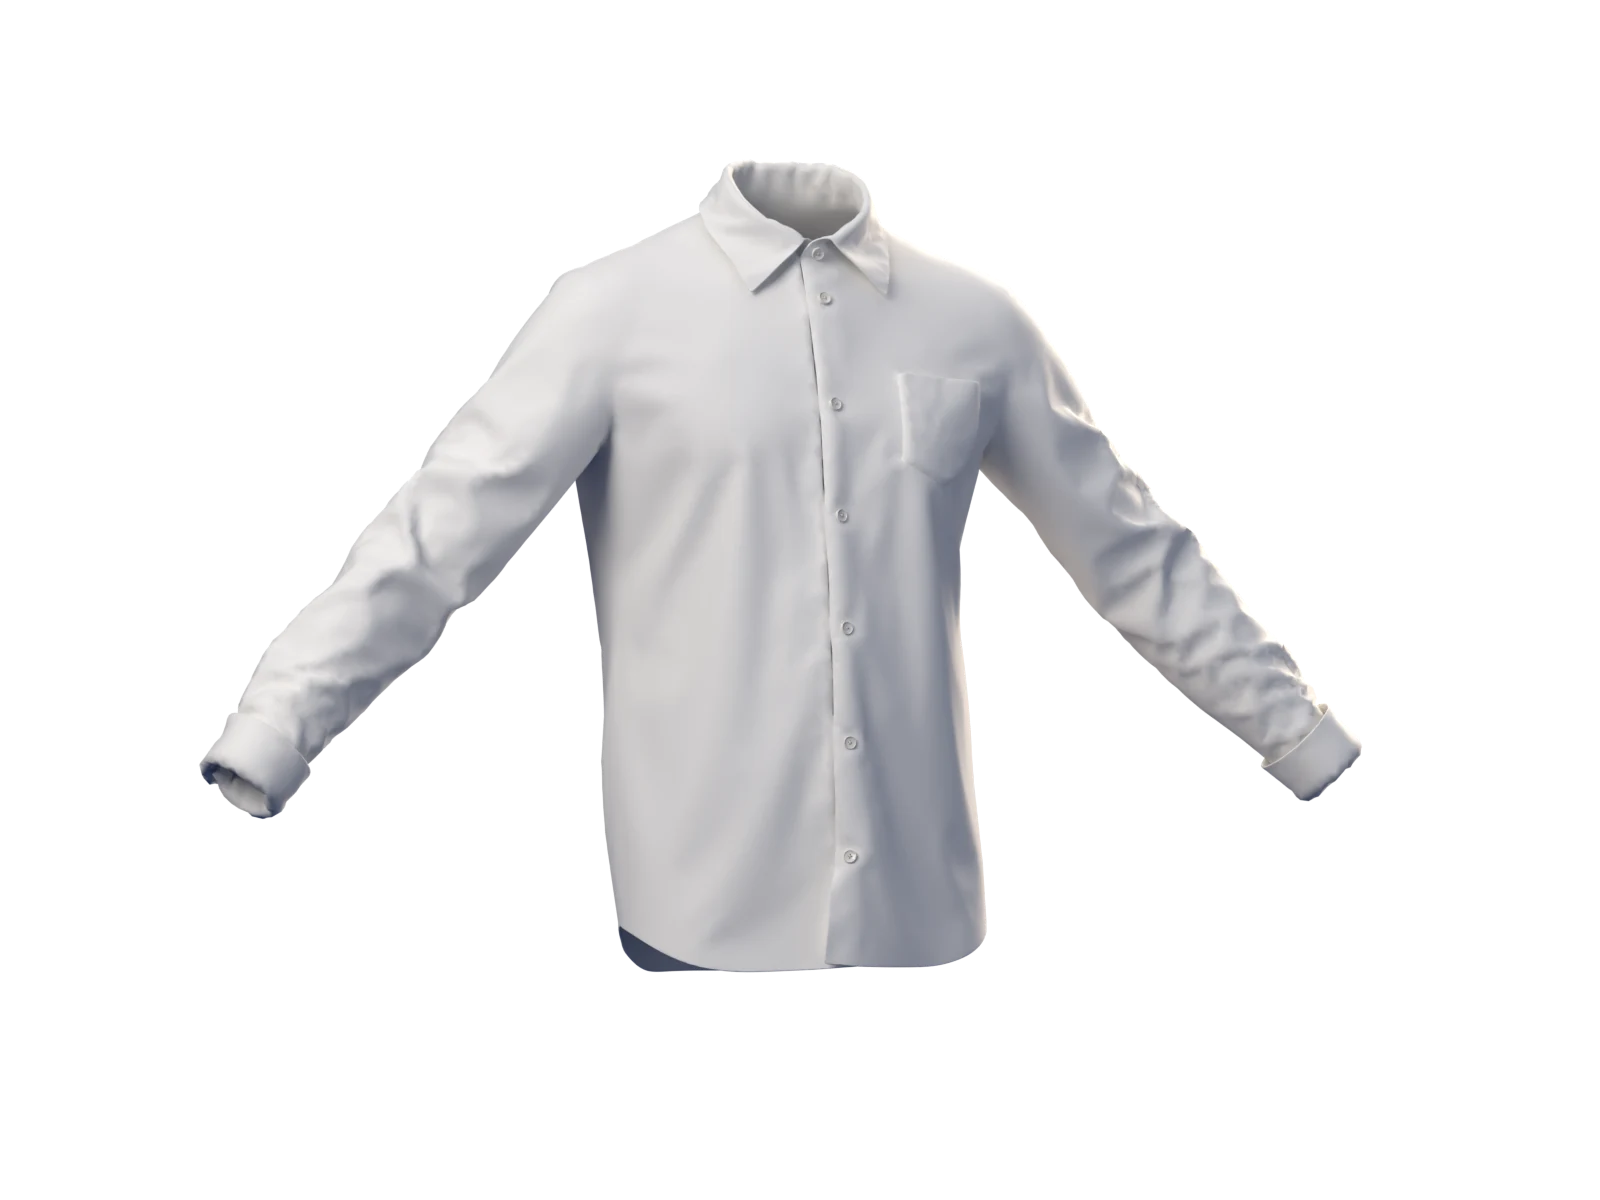
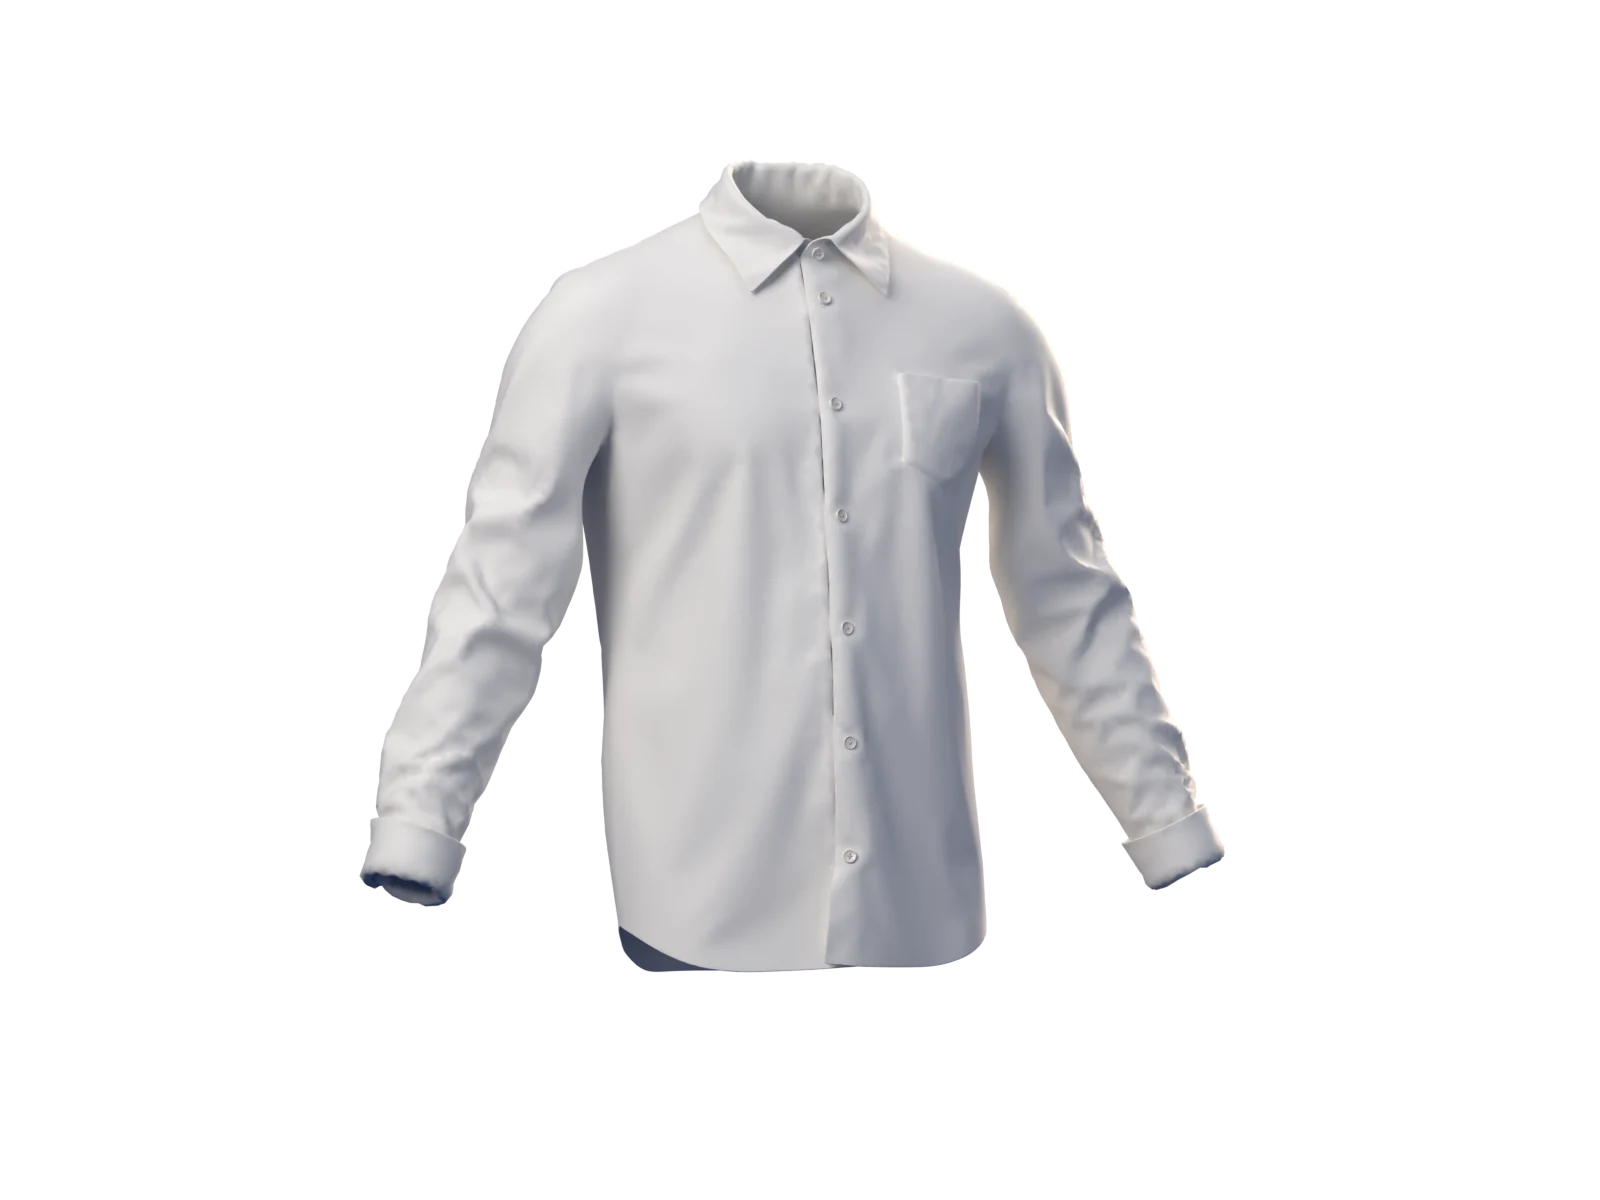
Camicia con le braccia più basse, anteprima aggiornata con la nuova struttura
- il proprietario ha scelto la posa con le braccia abbassate di 20 gradi:
  immagine ferma e misure aggiornate (il modello resta fuori dal repository)
- memoria e direzione creativa: struttura a più pagine online sull'anteprima,
  passo 1 del configuratore online per la prova dal vivo

Claude-Session: https://claude.ai/code/session_01D8Lb2KTLGf2y6eiKFqLGEZ

Changed region(s): [[0.125, 0.2775, 0.4062, 0.7708], [0.5938, 0.3083, 0.875, 0.7708]]

diff --git a/docs/direzione-creativa.md b/docs/direzione-creativa.md
@@ -345,15 +345,15 @@ Riaperto dal proprietario il 15 novembre 2026, da costruire **a passi**: ogni pa
 - *Il 3D è in diretta nel browser*, con three.js: è la prima volta nel progetto. Per l'apertura il 3D in diretta era stato scartato e resta scartato lì; qui serve perché la camicia deve rispondere al puntatore e, dal passo 2, cambiare tessuto.
 - *La camicia* parte da un modello già fatto, caricato dal proprietario il 15 novembre 2026 ("credo sia troppo complicato partire da zero, parti da questo già fatto e miglioralo"): camicia a maniche lunghe con taschino, 139.000 triangoli, bottoni e fili modellati. Avevamo cominciato a modellarla noi con Blender (busto invisibile e caduta del tessuto): abbandonato. Il modello è materiale comprato: l'originale non sta nel repository, e nemmeno il file pronto per il browser finché il repository è pubblico (vedi `CLAUDE.md`).
 - *Cosa ha di buono il modello*: la sua mappa è il cartamodello vero, in scala (un'unità vale 2,754 m di tessuto, scritto in `public/camicia/camicia.json`), con il filo nel verso giusto su ogni pezzo. Dal passo 2 basta stendere l'immagine di un tessuto ripetuta e righe e quadretti cadono come su una camicia cucita. Il tessuto ha due strati, diritto e rovescio, a 1,8 mm.
-- *Cosa abbiamo migliorato*: facce girate rimesse a posto; per ogni punto l'ombra d'ambiente calcolata con Blender (pieghe, sotto il collo, interno) e quanto può muoversi (niente su collo, polsini e bottoni); materiali nostri (cotone con la sua peluria e una grana fine, bottoni color madreperla); peso da 11,9 MB a 1,1 MB.
-- *Come si rifà* (serve il file originale `Shirt OBJ.obj`, che ha il proprietario): `<venv>/bin/python camicia/prepara.py <Shirt OBJ.obj> <cartella>`, poi `node camicia/comprimi.mjs <cartella>/camicia.glb public/camicia/camicia.glb`, poi `<venv>/bin/python camicia/manifesto.py <cartella>` per l'immagine ferma (`camicia.webp`, da copiare in `public/camicia/`).
+- *Cosa abbiamo migliorato*: braccia abbassate di 20 gradi (nel modello erano molto aperte: il proprietario ha scelto la posa più bassa sul confronto del 15 novembre), piegando le maniche attorno alla cucitura del giro manica; facce girate rimesse a posto; per ogni punto l'ombra d'ambiente calcolata con Blender (pieghe, sotto il collo, interno) e quanto può muoversi (niente su collo, polsini e bottoni); materiali nostri (cotone con la sua peluria e una grana fine, bottoni color madreperla); peso da 11,9 MB a 1,1 MB.
+- *Come si rifà* (serve il file originale `Shirt OBJ.obj`, che ha il proprietario): `<venv>/bin/python camicia/prepara.py <Shirt OBJ.obj> <cartella> --braccia 20`, poi `node camicia/comprimi.mjs <cartella>/camicia.glb public/camicia/camicia.glb`, poi `<venv>/bin/python camicia/manifesto.py <cartella>` per l'immagine ferma (`camicia.webp`, da copiare in `public/camicia/`).
 - *Come si muove*: galleggia piano; segue il puntatore girandosi di pochi gradi, con inerzia; dove il puntatore la sfiora il tessuto si increspa; si può afferrare e girare, anche con il dito. Con movimento ridotto sta ferma e si gira solo trascinandola.
 - *Il riquadro in vetro* sta a destra (sotto, sul telefono): stesso vetro satinato delle schede del sito, su fondo scuro. I campi li detta il proprietario; fino ad allora titolo, tre righe segnaposto in giallo e il pulsante spento.
 - *Caricamento*: stesso caricatore dell'apertura (logo, cucitura che avanza, percentuale). Motore 3D e modello si scaricano solo in questa pagina. Peso da non superare: 2,5 MB in tutto prima di vedere la camicia. Oggi: motore 590 KB (155 KB compresso in rete), modello 1,1 MB.
 - *Se il 3D non può partire* (browser senza WebGL, risparmio dati, JavaScript spento): un'immagine ferma della stessa camicia, calcolata con Blender, e il riquadro funziona lo stesso.
 - *Controlli prima di mostrarlo*: 60 fotogrammi al secondo su un portatile normale e fluido su un telefono di fascia media; nessuna richiesta di rete prima che la pagina sia visibile oltre al necessario; tastiera e lettore di schermo arrivano al riquadro senza passare dal 3D; larghezza 390 e 320 senza scorrimento di lato.
 
-**Stato al 15 novembre 2026.** Fatti: `src/configuratore/camicia3d.js` (il motore), `configuratore.js` (decide se il 3D può partire, caricamento, riserva), `configuratore.css` (palco, riquadro, telefono), immagine ferma, `tools/filma-camicia.js` per i video di prova. Video su computer e telefono mandati al proprietario. Da fare: la pagina dentro il sito (`src/pagine/configuratore.mjs` e le due voci in `build/costruisci.mjs`: la pagina passa a `configuratore.js` gli indirizzi con `data-camicia`, `data-motore`, `data-peso`, `data-scala`), l'ingresso dalla pagina del su misura, i campi veri del riquadro.
+**Stato al 15 novembre 2026.** Fatti: `src/configuratore/camicia3d.js` (il motore), `configuratore.js` (decide se il 3D può partire, caricamento, riserva), `configuratore.css` (palco, riquadro, telefono), immagine ferma, `tools/filma-camicia.js` per i video di prova. La pagina è nel sito (`src/pagine/configuratore.mjs`, testi in `contenuti/it/configuratore.json`) ed è sull'anteprima online, dove il proprietario la sta provando dal vivo: non è collegata dal resto del sito. Onda e oscillazione sono state rese più evidenti su sua richiesta. Da fare: la sua approvazione del passo 1, i campi veri del riquadro, poi accendere l'ingresso dalla pagina del su misura (`configuratore.attivo`).
 
 **Passi successivi, nell'ordine.** 2) scelta del tessuto, che cambia la camicia; 3) collo, polsi e altre opzioni, con i pezzi che cambiano; 4) misure del corpo guidate; 5) riepilogo, pagamento con Stripe, ordine a Endero. Ogni passo aspetta l'approvazione del precedente e i dati del proprietario (opzioni, prezzi, tempi di consegna).
 

diff --git a/CLAUDE.md b/CLAUDE.md
@@ -16,7 +16,7 @@ Questo file è la memoria del progetto: si aggiorna con la skill `memoria`.
 - "Diventa rivenditore", per chi compra da Endero per rivendere: pagina costruita il 2026-11-15 (punto 9 della direzione creativa, testi in `contenuti/it/diventa-rivenditore.json`), da far approvare al proprietario. Non c'entra con il brand workwear, che resta fuori.
 - Configuratore: riaperto dal proprietario il 2026-11-15, da costruire a passi; ogni passo si mostra e si approva prima del successivo. Le decisioni del 2026-11-14 restano valide. Opzioni, prezzi e campi da compilare li manda lui: non inventarli e non costruire passi che non ha chiesto.
 - Fuori: il brand workwear / divise da lavoro del piano marketing. Non va citato né progettato. (proprietario, 2026-11-14)
-- Pubblicazione: prima su un link Cloudflare di anteprima, poi sul dominio endero.it. L'anteprima è online dal 2026-11-15 su `https://endero-anteprima.orange-truth-81a7.workers.dev` (non indicizzabile, moduli che non salvano): il proprietario la manda al fondatore. Per aggiornarla: `URL_ANTEPRIMA=<indirizzo> node build/costruisci.mjs && npx wrangler deploy --config wrangler.anteprima.toml`.
+- Pubblicazione: prima su un link Cloudflare di anteprima, poi sul dominio endero.it. L'anteprima è online dal 2026-11-15 su `https://endero-anteprima.orange-truth-81a7.workers.dev` (non indicizzabile, moduli che non salvano): il proprietario la manda al fondatore. Dalla sera del 15 mostra la struttura a più pagine e il configuratore. Per aggiornarla: `URL_ANTEPRIMA=<indirizzo> node build/costruisci.mjs && npx wrangler deploy --config wrangler.anteprima.toml`.
 
 ## Tecnologie
 
@@ -83,6 +83,7 @@ Sito e aspetto
 - 2026-11-15 · Pagine interne costruite con i pezzi della pagina iniziale (`src/parti/sezioni.mjs`) e approvate dal proprietario: su misura, collezione, storia (poi sostituita da cultura e artigianato), dove siamo, privacy, cookie. I capi della collezione si aggiungono in `contenuti/it/prodotti.json` e la loro pagina si crea da sola; niente carrello, si chiede su WhatsApp.
 - 2026-11-15 · Il fondatore ha visto l'anteprima: "gli piace e si aspetta un lavoro di alto livello". Da qui il sito a più pagine (proprietario: "un solo one-pager diventa un po' complesso"): su misura con configuratore e rivenditori hanno ciascuno la propria pagina. Scartata: pagina unica.
 - 2026-11-15 · Pagina iniziale nuova: dopo l'apertura prima i prodotti, poi "Cultura e artigianato" (parole sue: "Cultura ed Artigianato") con foto che carica lui, al posto della storia. Perché: il fondatore non ha foto d'archivio né un racconto. Scartati: prima la storia, storia inventata (risposta nostra: no), sei domande al fondatore.
+- 2026-11-15 · Struttura a più pagine costruita e messa sull'anteprima con l'ok del proprietario ("Sì, aggiorna l'anteprima"), sui video della pagina iniziale e le schermate dei rivenditori. Restano da fargli vedere le scelte prese costruendo: punto 10 della direzione creativa.
 - 2026-11-15 · Uso della skill `design-taste-frontend`: "tieni l'approvato, aggiungi il meglio" (proprietario). Scartati: seguirla fino in fondo togliendo scorrimento morbido, comparse e carosello; confronto in video.
 - 2026-11-14 · La collezione parte come vetrina, il carrello arriva dopo. Prodotti come dati (prezzo, varianti, taglie) così la vendita si aggiunge senza rifare le schede.
 
@@ -112,6 +113,7 @@ Configuratore (riaperto il 2026-11-15, a passi)
 
 - 2026-11-15 · Passo 1 (parole del proprietario): "il 3D di una camicia sospesa in aria che si muove quando ci passo sopra con il mouse. Accanto una tabella glass con le info che poi ti dirò e che il cliente deve compilare", con un caricamento. Riferimento per il 3D: `beat.noomoagency.com`. Qui il 3D è in diretta nel browser; per l'apertura resta scartato.
 - 2026-11-15 · La camicia 3D parte da un modello già fatto caricato dal proprietario ("credo sia troppo complicato partire da zero, parti da questo già fatto e miglioralo"). Scartato: modellarla noi con Blender, che avevamo cominciato.
+- 2026-11-15 · Sulla camicia il proprietario ha scelto le braccia più basse (20 gradi, sul confronto a immagini) e un movimento più deciso al passaggio del mouse. Il passo 1 è online in `/camicie-su-misura/configuratore/` perché lo provi dal vivo: non è ancora approvato e non è collegato dal resto del sito. Scartati: braccia aperte come nel modello, cuciture visibili (non scelte).
 - 2026-11-15 · Chi ordina da casa dà solo le misure del corpo. Scartati: misurare una camicia che sta bene, scelta tra i due modi. (proprietario)
 - 2026-11-15 · Opzioni (tessuti, colli, polsi, vestibilità) e prezzi li manda il proprietario. Scartati: proposta nostra da correggere, modulo per il fondatore.
 - 2026-11-14 · Si chiude con un pagamento online: Stripe, importo intero all'ordine, pagina di pagamento ospitata da Stripe. Il sarto verifica le misure prima del taglio e scrive al cliente su WhatsApp se qualcosa non torna.
